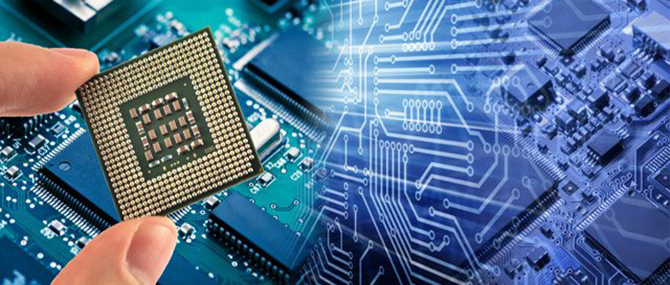
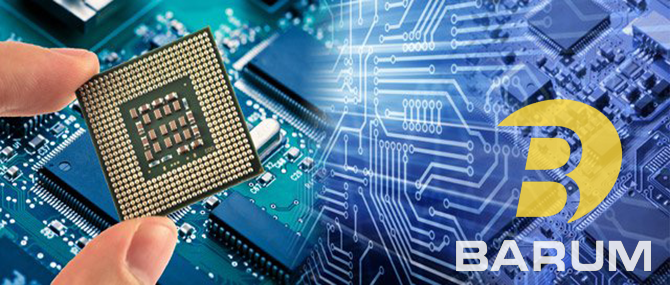
banner图修改

Changed region(s): [[0.7463, 0.3368, 0.9552, 0.786], [0.6567, 0.8421, 0.9851, 0.9544]]

diff --git a/html/index.html b/html/index.html
@@ -175,6 +175,8 @@
                                 <div class="cl">
                                     <ul class="slideshow" id="slidesImgs">
                                         <li><a href="javascript:;" target="_blank">
+                                            <img src="images/banner1.png" /></a></li>
+                                        <li><a href="javascript:;" target="_blank">
                                             <img src="images/banner2.png" /></a></li>
                                         <li><a href="javascript:;" target="_blank">
                                             <img src="images/banner3.png" /></a></li>
@@ -187,6 +189,7 @@
                                         <li class="on">1</li>
                                         <li>2</li>
                                         <li>3</li>
+                                        <li>4</li>
                                     </ul>
                                 </div>
                             </div>
